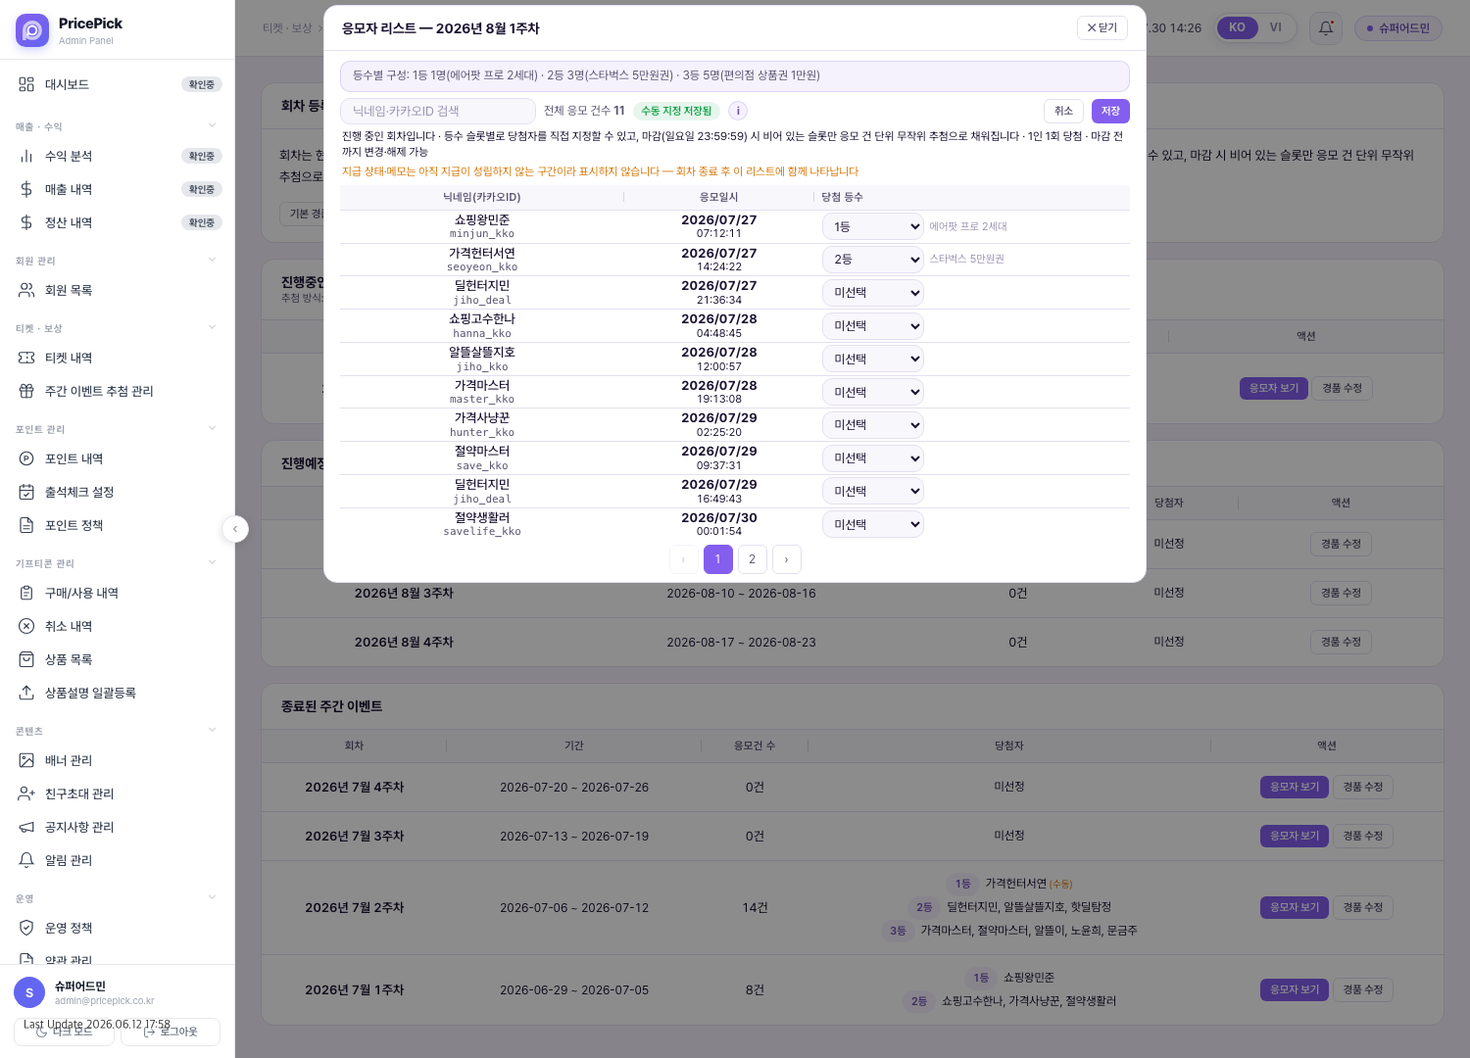
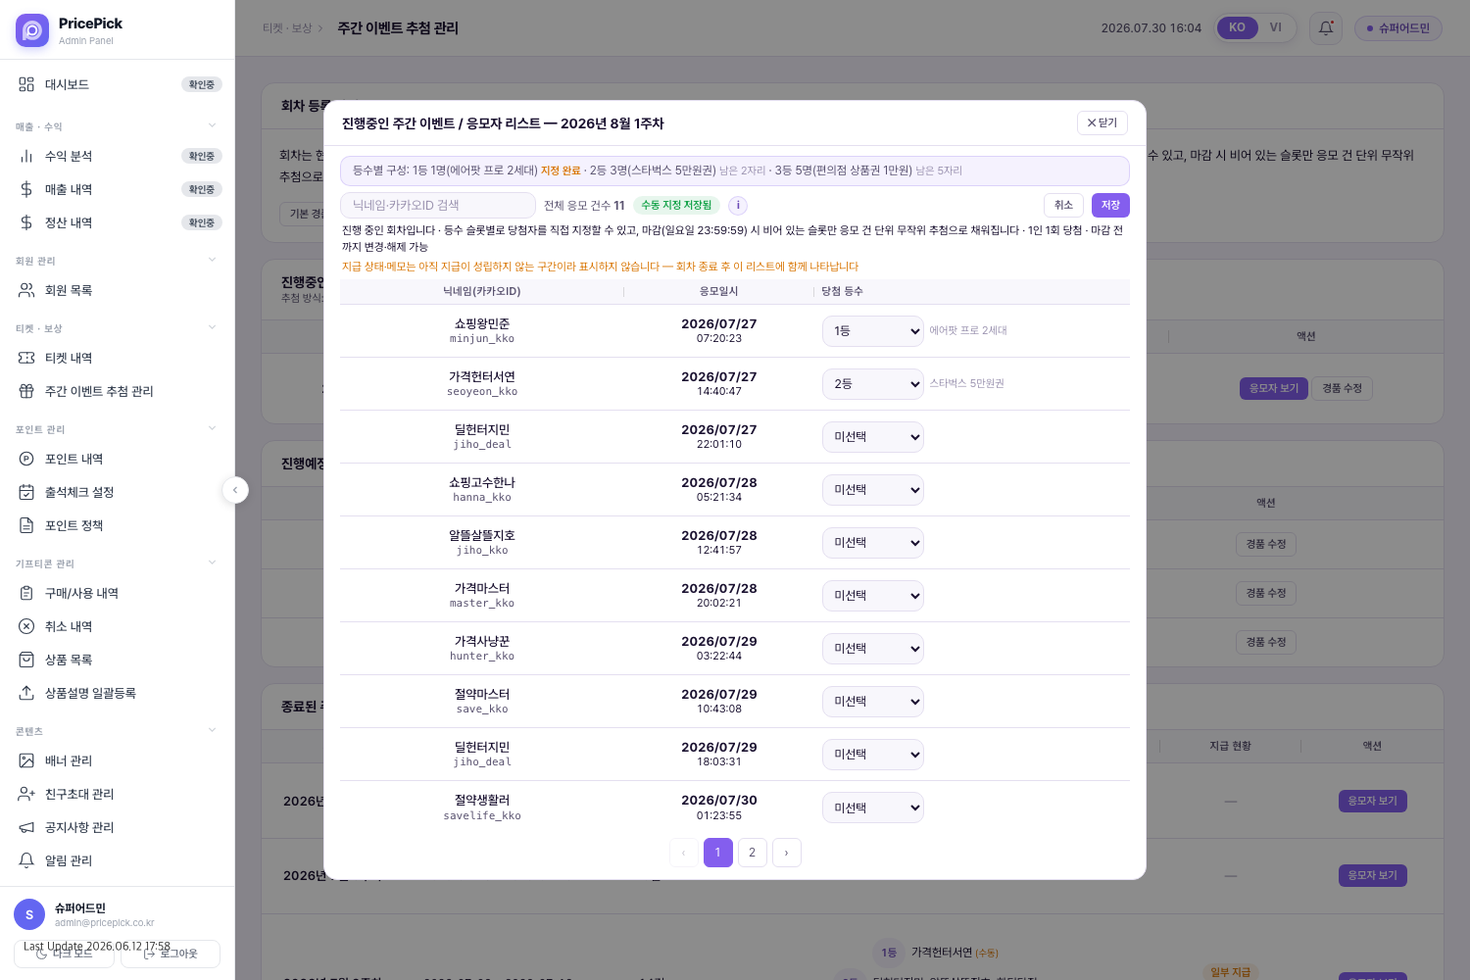
당첨 등수 드롭다운: 정원이 찬 등수 선택지 제외 + 남은 자리 표시 (CMS 원본·설명서)
데모와 동일 이식.
- pdRankRemaining()으로 등수별 잔여 슬롯을 계산하고, pdRankOptionsHtml()은 "미선택" + 자리가 남은
  등수만 노출한다. 그 행이 이미 지정된 등수는 해제·변경을 위해 자기 행에서만 계속 보인다.
  렌더마다 재계산되므로 지정·해제 즉시 반영되고 검색·페이지 이동에도 일관된다.
- 옵션 라벨에 남은 자리 수를 끼우지 않은 이유: KO2VI 사전이 문자열 정확 일치라 "2등 (1자리 남음)"은
  매칭되지 않아 드롭다운이 미번역이 된다. 대신 상단 "등수별 구성" 줄에 "남은 N자리" / "지정 완료"로
  표시하고 단위를 별도 텍스트 노드로 감싸 번역되게 했다.
- 설명서 5절: 선택지 필터 규칙(정원 찬 등수 제외, 자기 행 예외, 즉시 갱신, 검색·페이지 무관)과
  남은 자리 확인 위치를 서술(KO/VI). 응모자 리스트 캡처 재촬영 — 1등 "지정 완료", 2·3등 "남은 N자리"가
  보이는 상태로.

diff --git a/cms-storyboard/weekly-draws.html b/cms-storyboard/weekly-draws.html
@@ -108,7 +108,7 @@ code{font-family:'SF Mono',Menlo,monospace;font-size:11.5px;background:var(--bg)
 <p><span class="i18n"><span class="ko">회차 행의 "응모자 보기"를 누르면 그 회차에 응모한 사람들이 뜬다. 이 버튼은 <b>진행중·종료된 회차 행에만 있다</b> — 진행예정 회차는 아직 응모가 0건이라 볼 게 없어서 버튼 자체를 빼놨다. 표기는 닉네임과 카카오 아이디 두 줄뿐이다(내부 식별 아이디 같은 건 안 보여준다). 응모일시는 날짜와 시각까지 함께 나온다. 컬럼은 <b>닉네임(카카오ID) · 응모일시 · 당첨 등수</b> 3개다 — 당첨 등수 칸 하나에 등수 뱃지(진행 중 회차는 등수 지정 드롭다운)와 <b>그 등수에 걸린 경품명</b>, 지급 상태 뱃지, 메모칸이 한 줄로 들어간다. 경품명은 그 회차의 등수별 경품 구성에서 그대로 읽어오므로 <b>"경품 수정"에서 경품을 바꾸면 이 표기도 따라 바뀐다</b>. 리스트 위 툴바도 한 줄이다 — 검색창, 응모 건수, 상태 뱃지, 안내 (i) 버튼이 왼쪽에 붙고 취소·저장이 오른쪽에 붙는다. 긴 안내 문구는 (i)를 누르면 그 아래로 펼쳐진다(마우스만 올려도 전문이 뜬다).</span><span class="vi">Bấm "Xem người dự thưởng" ở dòng đợt để xem người đã dự thưởng đợt đó. Nút này <b>chỉ có ở dòng đợt đang diễn ra·đã kết thúc</b> — đợt sắp diễn ra chưa có lượt dự thưởng nào nên đã bỏ hẳn nút này. Chỉ hiển thị 2 dòng biệt danh và Kakao ID (không hiện ID định danh nội bộ). Thời điểm dự thưởng hiện cả ngày lẫn giờ. Bảng có 3 cột: <b>Biệt danh (Kakao ID) · Thời điểm dự thưởng · Hạng trúng thưởng</b> — riêng ô Hạng trúng thưởng chứa gọn trên một dòng: badge hạng (đợt đang diễn ra thì là dropdown chỉ định hạng), <b>tên quà gắn với hạng đó</b>, badge trạng thái gửi quà và ô ghi chú. Tên quà được đọc thẳng từ cấu hình quà theo hạng của đợt đó, nên <b>đổi quà ở "Chỉnh sửa giải thưởng" thì phần hiển thị này cũng đổi theo</b>. Thanh công cụ phía trên danh sách cũng gói trong một dòng — ô tìm kiếm, số lượt dự thưởng, badge trạng thái và nút hướng dẫn (i) nằm bên trái, Hủy·Lưu nằm bên phải. Nội dung hướng dẫn dài sẽ bung ra bên dưới khi bấm (i) (chỉ rê chuột cũng hiện đầy đủ).</span></span></p>
 <p><span class="i18n"><span class="ko">이벤트 티켓 <b>1장을 쓴 게 응모 1건이고, 리스트도 1행</b>이다. 그래서 한 사람이 티켓을 3장 썼으면 그 사람 이름으로 3행이 나란히 뜬다 — 한 사람이 여러 번 응모할 수 있다는 뜻이다. 당첨자 추첨도 이 응모 "행" 단위로 진행되기 때문에, 같은 사람이라도 <b>쓴 티켓이 많을수록(=응모 행이 많을수록) 당첨 확률이 그만큼 비례해서 올라간다</b>.</span><span class="vi">Dùng <b>1 vé sự kiện = 1 lượt dự thưởng = 1 dòng</b> trong danh sách. Vậy nếu 1 người dùng 3 vé thì tên người đó xuất hiện liền 3 dòng — nghĩa là 1 người có thể dự thưởng nhiều lần. Rút thăm người trúng cũng tiến hành theo đơn vị "dòng" dự thưởng này, nên dù cùng 1 người, <b>dùng càng nhiều vé (=càng nhiều dòng dự thưởng) thì xác suất trúng càng tăng theo tỷ lệ</b>.</span></span></p>
 <div class="callout"><div class="tt"><span class="i18n"><span class="ko">당첨자 선정 규칙</span><span class="vi">Quy tắc chọn người trúng</span></span></div><span class="i18n"><span class="ko">진행 중인 회차에서는 운영자가 등수 슬롯별로 당첨자를 직접 지정할 수 있고(마감 전까지 변경·해제 가능), 마감(일요일 23:59:59) 시점에 비어 있는 슬롯만 응모 건 단위 무작위 추첨으로 채워진다 · 1인 1회 당첨 · 1등부터 등수별 정원만큼 순서대로 채움 · 이미 수동 지정된 사람은 자동 추첨 대상에서 제외. 요약 문구는 응모자 리스트 모달 상단에도 회차 상태에 맞게 붙어 있다.</span><span class="vi">Với đợt đang diễn ra, Vận hành viên có thể trực tiếp chỉ định người trúng theo từng suất hạng (thay đổi·huỷ được cho đến khi đóng đợt), và tại thời điểm đóng đợt (23:59:59 Chủ Nhật) chỉ những suất còn trống mới được rút thăm ngẫu nhiên theo đơn vị lượt dự thưởng · Mỗi người chỉ trúng thưởng 1 lần · Lấp đầy theo thứ tự từ hạng 1 cho đến khi đủ số lượng từng hạng · Người đã được chỉ định thủ công bị loại khỏi diện rút thăm tự động. Nội dung tóm tắt này cũng hiện ở đầu modal danh sách người dự thưởng theo đúng trạng thái của đợt.</span></span></div>
-<p><span class="i18n"><span class="ko"><b>진행 중인 회차</b>를 열면 각 응모 행의 "당첨 등수" 칸이 <b>드롭다운</b>으로 나온다. 그 회차 경품 구성에 있는 등수만 선택지로 뜨고("미선택" 포함), 등수를 고르면 그 행이 그 등수 슬롯의 당첨자가 된다. 두 가지는 화면에서 바로 막는다 — <b>등수별 정원을 넘겨 지정할 수 없고</b>("해당 등수의 슬롯이 이미 모두 찼습니다."), <b>같은 사람을 두 번 지정할 수 없다</b>("이미 다른 응모 건으로 당첨 처리된 응모자입니다"). 지정은 <b>상단 "저장"을 눌러야 확정</b>되며, 저장 전에는 상태 뱃지가 "저장 전 (임시 지정)"으로 뜬다. 저장 후에도 마감 전이면 언제든 다른 행으로 바꾸거나 "미선택"으로 되돌려 해제할 수 있다.</span><span class="vi">Khi mở <b>đợt đang diễn ra</b>, cột "Hạng trúng thưởng" của mỗi dòng dự thưởng hiện dưới dạng <b>danh sách chọn (dropdown)</b>. Chỉ các hạng có trong cấu hình quà của đợt đó xuất hiện làm lựa chọn (kèm "Chưa chọn"), chọn một hạng thì dòng đó thành người trúng của suất hạng ấy. Hai điều bị chặn ngay trên màn hình — <b>không chỉ định vượt số lượng của từng hạng</b> ("Các suất của hạng này đã đầy.") và <b>không chỉ định cùng một người hai lần</b> ("Người này đã được chọn trúng thưởng ở một lượt dự thưởng khác"). Chỉ định <b>chỉ được chốt khi bấm "Lưu"</b> phía trên; trước khi lưu, badge trạng thái hiện "Trước khi lưu (chỉ định tạm)". Sau khi lưu, nếu vẫn chưa đóng đợt thì lúc nào cũng có thể đổi sang dòng khác hoặc đưa về "Chưa chọn" để huỷ chỉ định.</span></span></p>
+<p><span class="i18n"><span class="ko"><b>진행 중인 회차</b>를 열면 각 응모 행의 "당첨 등수" 칸이 <b>드롭다운</b>으로 나온다. 선택지에는 "미선택"과 <b>아직 자리가 남은 등수만</b> 뜬다 — 정원이 다 찬 등수는 다른 행 드롭다운에서 사라지므로, 애초에 초과 지정을 시도할 수 없다. 예를 들어 1등 정원이 1명이면 한 명을 지정한 순간 다른 행에서 1등이 안 보이고, 2등 정원 3명 중 2명만 지정됐으면 아직 남았으니 계속 보인다. <b>자기 행이 이미 지정된 등수는 그 행에서 계속 보인다</b>(해제·변경할 수 있어야 하므로). 지정·해제할 때마다 나머지 행의 선택지가 즉시 다시 계산되고, 검색·페이지 이동 후에도 같은 기준이 유지된다. 남은 자리 수는 상단 "등수별 구성" 줄에서 등수별로 <b>"남은 N자리" / "지정 완료"</b>로 확인한다. 두 가지는 화면에서 바로 막는다 — <b>등수별 정원을 넘겨 지정할 수 없고</b>("해당 등수의 슬롯이 이미 모두 찼습니다."), <b>같은 사람을 두 번 지정할 수 없다</b>("이미 다른 응모 건으로 당첨 처리된 응모자입니다"). 지정은 <b>상단 "저장"을 눌러야 확정</b>되며, 저장 전에는 상태 뱃지가 "저장 전 (임시 지정)"으로 뜬다. 저장 후에도 마감 전이면 언제든 다른 행으로 바꾸거나 "미선택"으로 되돌려 해제할 수 있다.</span><span class="vi">Khi mở <b>đợt đang diễn ra</b>, cột "Hạng trúng thưởng" của mỗi dòng dự thưởng hiện dưới dạng <b>danh sách chọn (dropdown)</b>. Lựa chọn chỉ gồm "Chưa chọn" và <b>những hạng còn suất trống</b> — hạng đã đủ số lượng sẽ biến mất khỏi dropdown của các dòng khác, nên không thể chỉ định vượt số lượng từ đầu. Ví dụ hạng 1 chỉ có 1 suất thì ngay khi chỉ định 1 người, các dòng khác không còn thấy hạng 1; hạng 2 có 3 suất mà mới chỉ định 2 người thì vẫn còn nên tiếp tục hiện. <b>Hạng mà chính dòng đó đã được chỉ định thì vẫn hiện ở dòng đó</b> (để có thể huỷ·thay đổi). Mỗi lần chỉ định·huỷ, lựa chọn của các dòng còn lại được tính lại ngay, và sau khi tìm kiếm·chuyển trang vẫn giữ cùng chuẩn. Số suất còn lại xem ở dòng "Cơ cấu theo hạng" phía trên, theo từng hạng dưới dạng <b>"còn N suất" / "Đã chỉ định đủ"</b>. Hai điều bị chặn ngay trên màn hình — <b>không chỉ định vượt số lượng của từng hạng</b> ("Các suất của hạng này đã đầy.") và <b>không chỉ định cùng một người hai lần</b> ("Người này đã được chọn trúng thưởng ở một lượt dự thưởng khác"). Chỉ định <b>chỉ được chốt khi bấm "Lưu"</b> phía trên; trước khi lưu, badge trạng thái hiện "Trước khi lưu (chỉ định tạm)". Sau khi lưu, nếu vẫn chưa đóng đợt thì lúc nào cũng có thể đổi sang dòng khác hoặc đưa về "Chưa chọn" để huỷ chỉ định.</span></span></p>
 <p><span class="i18n"><span class="ko">마감 시각이 되면 시스템이 <b>비어 있는 슬롯만</b> 채운다. 수동 지정된 사람을 뺀 나머지 응모 행을 전부 무작위로 섞은 뒤, 등수별로 남은 자리만큼 1등부터 순서대로 채우고, <b>같은 사람이 두 번 당첨되는 일은 막는다</b>(이미 당첨된 사람의 다른 응모 행은 건너뜀). 이렇게 확정된 뒤에는 <b>운영자가 당첨자를 바꿀 수 없다</b> — 종료된 회차의 "당첨 등수" 칸은 드롭다운이 아니라 결과 뱃지로만 보인다. 데모 환경에는 서버 크론이 없어서, 실제로는 CMS 화면을 여는 시점에 "마감은 지났는데 아직 추첨 안 된 회차"가 있는지 확인해 그 자리에서 대신 처리한다(운영자 눈에는 차이가 없다).</span><span class="vi">Khi đến giờ đóng đợt, hệ thống chỉ lấp <b>những suất còn trống</b>. Hệ thống xáo trộn ngẫu nhiên toàn bộ dòng dự thưởng còn lại sau khi trừ người đã được chỉ định thủ công, rồi lấp đúng số chỗ còn thiếu của từng hạng theo thứ tự từ hạng 1, đồng thời <b>chặn việc 1 người trúng hai lần</b> (bỏ qua các dòng dự thưởng khác của người đã trúng). Sau khi đã chốt như vậy thì <b>Vận hành viên không thể đổi người trúng</b> — cột "Hạng trúng thưởng" của đợt đã kết thúc chỉ hiện badge kết quả, không phải dropdown. Vì môi trường demo không có cron server, trên thực tế hệ thống kiểm tra vào lúc mở màn CMS xem có đợt nào "đã đóng nhưng chưa rút thăm" không rồi xử lý thay ngay lúc đó (Vận hành viên nhìn thấy không khác gì nhau).</span></span></p>
 <p><span class="i18n"><span class="ko">당첨으로 뽑힌 응모 행에는 <b>"당첨 · N등" 뱃지</b>가 붙고, 이런 행들은 등수 순서로 리스트 맨 위에 모인다. 회차 리스트의 "당첨자" 칸에서는 운영자가 직접 지정한 당첨자 뒤에 <b>"(수동)" 표시</b>가 붙어 자동 추첨분과 구분된다.</span><span class="vi">Dòng dự thưởng được chọn trúng sẽ có <b>badge "Trúng thưởng · Hạng N"</b>, và các dòng này được gom lên đầu danh sách theo thứ tự hạng. Ở cột "Người trúng" của danh sách đợt, người trúng do Vận hành viên trực tiếp chỉ định sẽ có thêm <b>ký hiệu "(thủ công)"</b> để phân biệt với phần rút thăm tự động.</span></span></p>
 <p><span class="i18n"><span class="ko">응모자가 많은 회차를 대비해 리스트 위에 <b>닉네임 검색창</b>이 있고, 리스트는 <b>10건씩 페이지로 나뉜다</b>. 검색은 닉네임과 카카오 아이디를 둘 다 부분 일치로 잡는다(대소문자 구분 없음) — "지민"만 쳐도 "딜헌터지민"이 걸린다. 검색창 오른쪽에는 <b>전체 응모 건수</b>가 항상 떠 있고, 검색 중에는 "검색 결과 N / 전체 응모 건수 M" 형태로 둘 다 보여준다(총계는 티켓 1장 = 1행 기준 그대로다). 정렬 규칙은 검색·페이지와 무관하게 그대로다 — <b>당첨자를 등수 순으로 먼저 세우고 그 뒤에 나머지</b>를 붙인 순서를 정해놓고 그 순서 그대로 10건씩 끊기 때문에, 1페이지 맨 위는 항상 1등이다. 당첨 뱃지·지급 상태 뱃지·메모칸도 검색 결과 안에서 똑같이 눌리고 입력된다. 검색어를 바꾸면 1페이지로 돌아가고, 모달을 닫았다 다시 열면 검색어·페이지가 초기화된다. 10건 이하면 페이지 버튼은 아예 안 나온다.</span><span class="vi">Để chuẩn bị cho các đợt có nhiều người dự thưởng, phía trên danh sách có <b>ô tìm kiếm biệt danh</b>, và danh sách được <b>chia trang 10 dòng mỗi trang</b>. Tìm kiếm khớp một phần cả biệt danh lẫn Kakao ID (không phân biệt hoa thường) — chỉ gõ "지민" cũng ra "딜헌터지민". Bên phải ô tìm kiếm luôn hiện <b>tổng số lượt dự thưởng</b>, khi đang tìm kiếm thì hiện cả hai theo dạng "Kết quả tìm kiếm N / Tổng số lượt dự thưởng M" (tổng số vẫn tính theo chuẩn 1 vé = 1 dòng như cũ). Quy tắc sắp xếp không đổi dù có tìm kiếm hay chia trang — <b>xếp người trúng lên trước theo thứ tự hạng rồi mới nối phần còn lại</b>, sau đó mới cắt 10 dòng mỗi trang theo đúng thứ tự đó, nên đầu trang 1 luôn là hạng 1. Badge trúng thưởng·badge trạng thái gửi quà·ô ghi chú trong kết quả tìm kiếm cũng bấm và nhập được y hệt. Đổi từ khóa thì quay về trang 1, đóng modal rồi mở lại thì từ khóa·trang được đặt lại. Nếu từ 10 dòng trở xuống thì nút chuyển trang không hiện.</span></span></p>

diff --git a/cms.html b/cms.html
@@ -556,6 +556,9 @@ body.dark .member-type-apple::before{background:#E5E7EB;}
 .pd-cell2-row .badge{flex:none;}
 .pd-cell2-row .pd-memo-input{height:24px;font-size:11.5px;padding:2px 8px;}
 #pd-ent-table .badge-purple{margin-right:0;}
+/* 상단 요약의 등수별 남은 자리 표기 — 경품 구성 뒤에 옅게 붙인다 */
+.pd-remain{font-size:11px;color:var(--text-3);}
+.pd-remain-full{color:var(--amber);font-weight:600;}
 /* 등수 옆에 붙는 경품명 — 회차의 등수별 경품 구성에서 읽어온다(하드코딩 아님).
    칸보다 길면 말줄임 + title로 전체 노출해 행 높이를 한 줄로 고정. */
 .pd-prize-name{flex:0 1 auto;min-width:0;max-width:190px;font-size:11px;color:var(--text-3);
@@ -4607,13 +4610,54 @@ function pdPrizeNameHtml(rank) {
   return '<span class="pd-prize-name" title="' + ppEsc(name) + '">' + ppEsc(name) + '</span>';
 }
 /* 진행 중인 회차의 당첨 등수 컬럼 — 등수 슬롯 수동 지정 드롭다운(해제는 "미선택") */
+/* 등수별 남은 슬롯 수 — 정원(경품 구성의 당첨자 수) − 지금 지정돼 있는 수.
+   지정/해제할 때마다 pdRenderEntrantRows()가 다시 돌면서 이 값이 재계산되므로,
+   다른 행 드롭다운의 선택지도 즉시 갱신된다(검색·페이지 이동 후에도 같은 기준). */
+function pdRankRemaining() {
+  var used = {};
+  Object.keys(pdStagedWinners).forEach(function(id) {
+    var r = String(ppRankNum(pdStagedWinners[id].rank));
+    used[r] = (used[r] || 0) + 1;
+  });
+  var remain = {};
+  pdCurrentRoundPrizes.forEach(function(p) {
+    var r = String(ppRankNum(p.rank));
+    remain[r] = (p.count || 0) - (used[r] || 0);
+  });
+  return remain;
+}
+/* 정원이 다 찬 등수는 선택지에서 뺀다 — 단 이 행이 이미 그 등수로 지정돼 있으면 해제·변경할 수 있어야
+   하므로 자기 등수는 남긴다. 옵션 라벨은 "N등" 그대로 둬야 KO2VI 사전("1등"→"Giải Nhất")이 매칭되므로,
+   남은 자리 수는 라벨에 끼워넣지 않고 상단 "등수별 구성" 줄에 따로 표시한다(pdRefreshEntSummary). */
 function pdRankOptionsHtml(selectedRank) {
+  var remain = pdRankRemaining();
   var opts = '<option value="">미선택</option>';
   pdCurrentRoundPrizes.slice().sort(function(a,b){return ppRankNum(a.rank)-ppRankNum(b.rank);}).forEach(function(p){
     var r = ppRankNum(p.rank);
-    opts += '<option value="' + r + '"' + (String(selectedRank)===String(r)?' selected':'') + '>' + r + '등</option>';
+    var isMine = String(selectedRank) === String(r);
+    if (!isMine && (remain[String(r)] || 0) <= 0) return;
+    opts += '<option value="' + r + '"' + (isMine ? ' selected' : '') + '>' + r + '등</option>';
   });
   return opts;
+}
+/* 상단 "등수별 구성" 줄 — 진행 중 회차에서는 등수별 남은 자리를 함께 보여준다.
+   숫자는 그대로 두고 단위·문구만 별도 텍스트 노드로 감싸 KO/VI 사전이 매칭되게 한다. */
+function pdRefreshEntSummary() {
+  var el = document.getElementById('pd-ent-summary');
+  if (!el) return;
+  var isActive = pdCurrentRoundPhase === 'active';
+  var remain = isActive ? pdRankRemaining() : null;
+  el.innerHTML = '<span>등수별 구성:</span> ' + pdCurrentRoundPrizes.slice()
+    .sort(function(a,b){return ppRankNum(a.rank)-ppRankNum(b.rank);})
+    .map(function(p) {
+      var r = ppRankNum(p.rank);
+      var base = '<span>' + r + '등</span> ' + p.count + '<span>명</span>(' + ppEsc(p.name) + ')';
+      if (!isActive) return base;
+      var left = remain[String(r)] || 0;
+      return base + (left > 0
+        ? ' <span class="pd-remain">남은</span> <span class="pd-remain">' + left + '</span><span class="pd-remain">자리</span>'
+        : ' <span class="pd-remain pd-remain-full">지정 완료</span>');
+    }).join(' · ');
 }
 
 /* 응모 행(사용 티켓 1장 = 1행) 단위로 렌더 — 같은 사람이 티켓을 여러 장 썼으면 그만큼 행이 나열됨.
@@ -4759,6 +4803,7 @@ function pdRenderEntrantRows() {
   if (!tbody) return;
   var isActive = pdCurrentRoundPhase === 'active';
   pdApplyEntColLayout();
+  pdRefreshEntSummary();
   var rankMap = pdRankMapForRender();
   var list = pdFilteredEntrants(rankMap);
   var totalPages = Math.max(1, Math.ceil(list.length / PD_ENT_PAGE_SIZE));
@@ -4896,7 +4941,7 @@ window.pdOpenEntrantsModal = function(raffleId) {
   pdCurrentRoundEndDate = d.end_date;
   pdRefreshEntrantsTitle();
   pdRefreshEntrantsNote();
-  document.getElementById('pd-ent-summary').innerHTML = '<span>등수별 구성:</span> ' + pdCurrentRoundPrizes.slice().sort(function(a,b){return ppRankNum(a.rank)-ppRankNum(b.rank);}).map(function(p){ return '<span>' + ppRankNum(p.rank) + '등</span> ' + p.count + '<span>명</span>(' + ppEsc(p.name) + ')'; }).join(' · ');
+  pdRefreshEntSummary();
   pdConfirmedWinners = (Array.isArray(d.winners_confirmed) ? d.winners_confirmed : []).map(function(w){ return Object.assign({paid:false, memo:''}, w); });
   pdConfirmedWinnersBaseline = JSON.parse(JSON.stringify(pdConfirmedWinners));
   pdCurrentEntrants = ppRaffleEntries.filter(function(e){ return e.raffle_id === raffleId; }).map(function(e){ return Object.assign({_id: e.id}, e); });
@@ -6428,7 +6473,10 @@ Object.assign(KO2VI,{
 Object.assign(KO2VI,{
   "회차 종료 후 지급 관리 가능":"Có thể quản lý gửi quà sau khi đợt kết thúc",
   "지급 상태·메모는 아직 지급이 성립하지 않는 구간이라 표시하지 않습니다 — 회차 종료 후 이 리스트에 함께 나타납니다":"Trạng thái gửi quà·ghi chú không được hiển thị vì chưa tới lúc phát sinh việc gửi quà — sẽ xuất hiện trong danh sách này sau khi đợt kết thúc",
-  "종료된 회차는 경품을 수정할 수 없습니다.":"Đợt đã kết thúc thì không thể sửa giải thưởng."
+  "종료된 회차는 경품을 수정할 수 없습니다.":"Đợt đã kết thúc thì không thể sửa giải thưởng.",
+  "남은":"còn",
+  "자리":" suất",
+  "지정 완료":"Đã chỉ định đủ"
 });
 /* 종료 회차 리스트 "지급 현황" 컬럼(2026-07-30) */
 Object.assign(KO2VI,{
